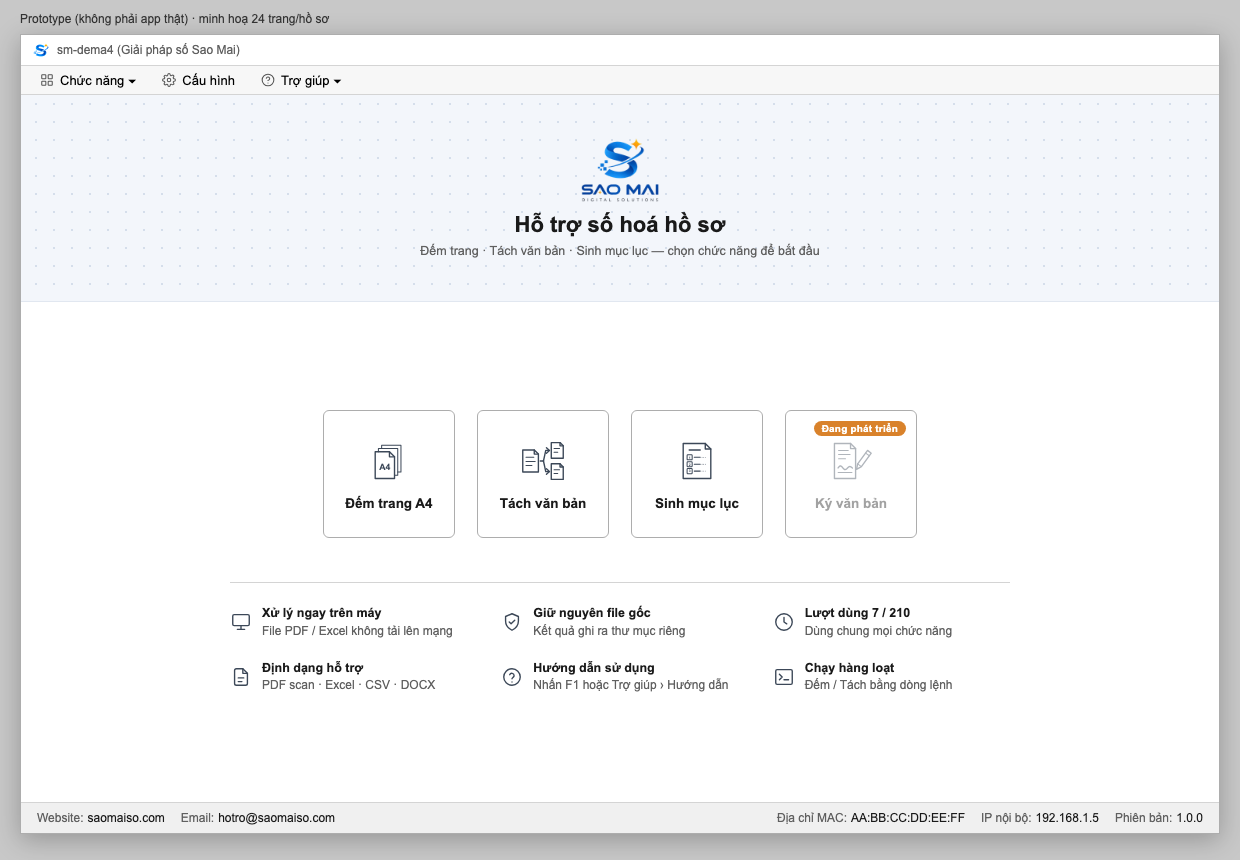
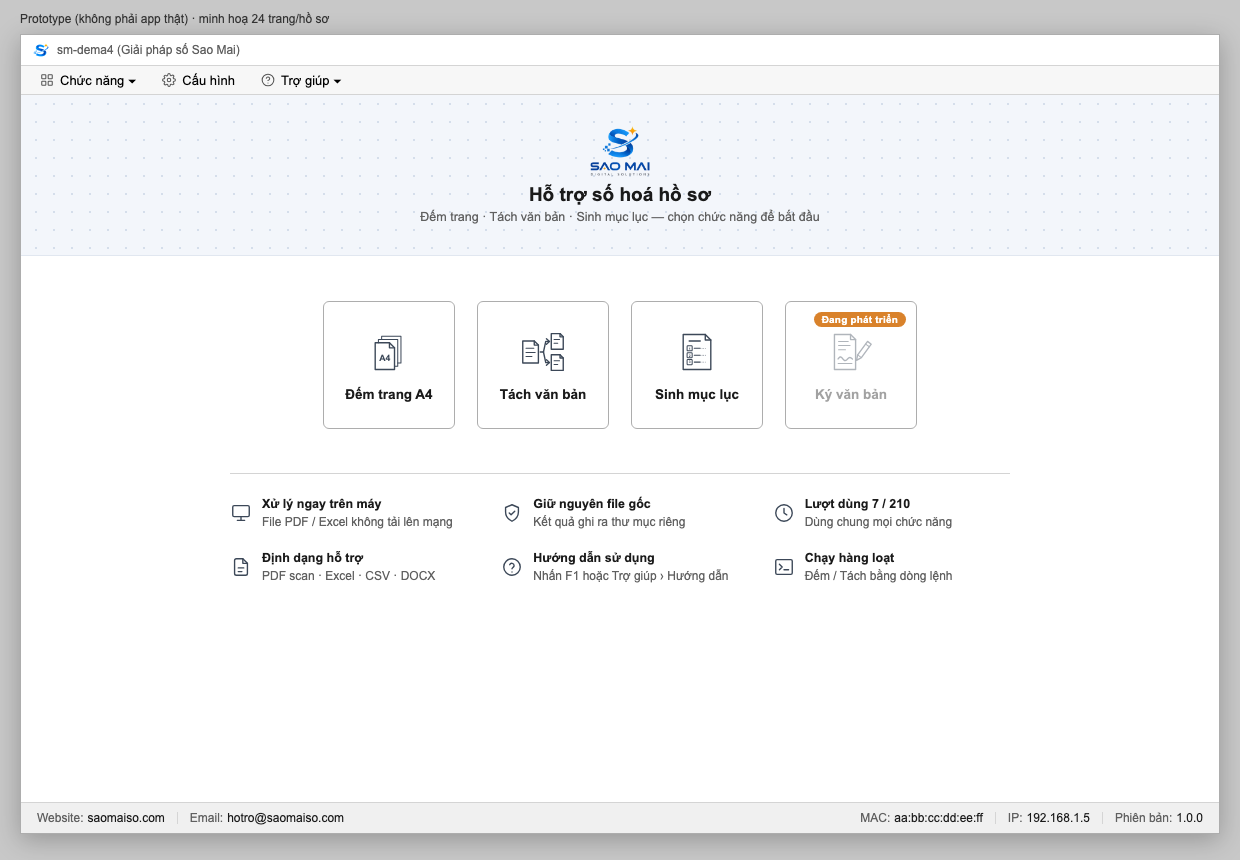
docs(prototype): trang chủ dải đầu gọn hơn, ô chức năng dịch lên, thanh đáy MAC / IP có vạch ngăn

diff --git a/plans/261027-1736-tach-van-ban-tu-dong/prototype-tach-van-ban.html b/plans/261027-1736-tach-van-ban-tu-dong/prototype-tach-van-ban.html
@@ -114,18 +114,20 @@
   .gioithieu.pt > *:not(.nhan-pt) { opacity:.4; }
   .nhan-pt { display:inline-block; background:#D9822B; color:#fff; font-weight:bold; font-size:12px; padding:5px 14px; border-radius:999px; margin:0 0 10px; letter-spacing:.2px; }
   /* Trang chủ: 4 thẻ chức năng (logo + tên), rê chuột hiện tóm tắt mục đích; logo Sao Mai góc dưới trái */
-  #manTrangChu { align-items:center; justify-content:center; padding-top:0; padding-bottom:30px; position:relative; background:#fff; margin:0 -12px; }
+  #manTrangChu { align-items:center; justify-content:flex-start; padding-top:0; padding-bottom:30px; position:relative; background:#fff; margin:0 -12px; }
   /* Đầu trang chủ: dải nền xanh rất nhạt chạy hết bề ngang, hoạ tiết lưới chấm mờ; logo Sao Mai giữa, tên + mô tả bên dưới */
-  .tc-dau { position:absolute; left:0; right:0; top:0; height:206px; display:flex; flex-direction:column; align-items:center; justify-content:center; text-align:center;
+  .tc-dau { position:absolute; left:0; right:0; top:0; height:160px; display:flex; flex-direction:column; align-items:center; justify-content:center; text-align:center;
     background:#F3F6FB radial-gradient(#D5DEEB 1px, transparent 1.2px) 0 0 / 18px 18px; border-bottom:1px solid #E1E7F0; }
-  .tc-dau .logo-dinh { display:block; width:78px; margin-bottom:10px; } .tc-dau .logo-dinh img { width:100%; height:auto; display:block; }
+  .tc-dau .logo-dinh { display:block; width:60px; margin-bottom:8px; } .tc-dau .logo-dinh img { width:100%; height:auto; display:block; }
   .tc-dau .vach, .tc-dau small { display:none; }
   .tc-dau p { margin:0; color:var(--chu-phu); font-size:12.5px; }
   .tc-than { display:flex; flex-direction:column; align-items:center; margin-top:206px; }
+  .tc-dau h1 { font-size:19px !important; margin:0 0 4px !important; }
   /* Thanh đáy trang chủ: liên hệ bên trái, thông tin máy + phiên bản bên phải */
   .tc-day { position:absolute; left:0; right:0; bottom:0; height:30px; display:flex; align-items:center; justify-content:space-between; gap:18px; padding:0 28px; background:var(--nen); border-top:1px solid var(--vien-nhat); font-size:12px; color:var(--chu-phu); }
   .tc-day b { color:var(--chu); font-weight:normal; margin-left:4px; }
-  .tc-day > span { display:flex; gap:16px; align-items:center; }
+  .tc-day > span { display:flex; align-items:center; }
+  .tc-day > span > span { padding:0 12px; border-left:1px solid #D5D5D5; line-height:12px; } .tc-day > span > span:first-child { border-left:0; padding-left:0; } .tc-day > span > span:last-child { padding-right:0; }
   .tc-day a { color:var(--chu-phu); text-decoration:none; } .tc-day a:hover { color:var(--cobalt); text-decoration:underline; }
   /* Lưới thông tin dưới các ô chức năng */
   .tc-diem { display:grid; grid-template-columns:repeat(3, 1fr); gap:20px 34px; margin-top:44px; padding-top:22px; border-top:1px solid var(--vien-nhat); width:780px; }
@@ -704,7 +706,7 @@
     </div>
     <div class="tc-day">
       <span><span>Website:<a href="https://saomaiso.com" target="_blank" rel="noopener" style="margin-left:4px;color:var(--chu)">saomaiso.com</a></span><span>Email:<a href="mailto:hotro@saomaiso.com" style="margin-left:4px;color:var(--chu)">hotro@saomaiso.com</a></span></span>
-      <span><span>Địa chỉ MAC:<b>AA:BB:CC:DD:EE:FF</b></span><span>IP nội bộ:<b>192.168.1.5</b></span><span>Phiên bản:<b>1.0.0</b></span></span>
+      <span><span>MAC:<b>aa:bb:cc:dd:ee:ff</b></span><span>IP:<b>192.168.1.5</b></span><span>Phiên bản:<b>1.0.0</b></span></span>
     </div>
   </div>
 
